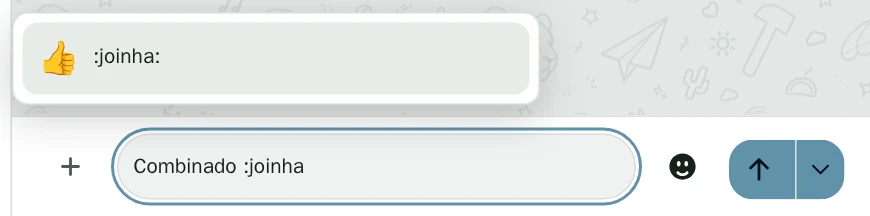
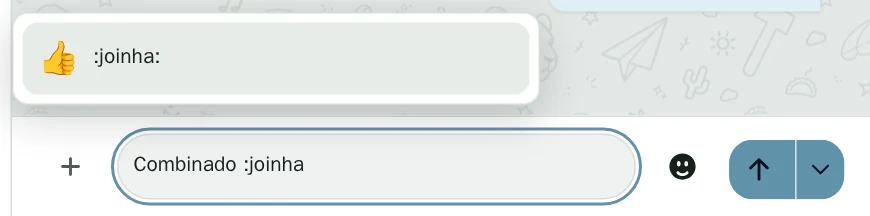
docs: refresh Oiê screenshots from main

diff --git a/README.md b/README.md
@@ -25,7 +25,7 @@ Os links em `content/baixar/index.md` apontam para arquivos de uma versão espec
 
 O manual, os atalhos e os exemplos do CLI foram conferidos com a [main do aplicativo em 6c8e8c0](https://github.com/araihu/oie/tree/6c8e8c08803e2e9433dc7bcb474024589aa63699). A página de arquitetura e deploy foi conferida com a [revisão 883551a](https://github.com/araihu/oie/tree/883551afe9f4f9a4ef2c27b1fc34c87fd4fd1a2f). Ao atualizar, registre o SHA das páginas revisadas e confira as notas da versão oferecida em **Baixar**. O contrato HTTP fica no [catálogo OpenAPI da Arai Hû](https://oapi.araihu.com/catalogs/oie/documents/engine-next/).
 
-As capturas no manual e nos atalhos mostram a interface em pt-BR com dados fictícios em instâncias isoladas. As capturas da busca geral e da solicitação de mensagem são de `6c8e8c0`. As demais foram conferidas em `7ae8057`. Os recortes estão em WebP, ao lado da página que os usa.
+As capturas da página inicial, do manual e dos atalhos mostram a interface em pt-BR com dados fictícios em instâncias isoladas. A captura da página inicial e as sete capturas de recursos mais antigas foram refeitas na [revisão e87ea75](https://github.com/araihu/oie/tree/e87ea75b0dac62915c0b4e7fe8cb49d01ecc6692). As capturas da busca geral e da solicitação de mensagem são de `6c8e8c0`, que tem a mesma interface. As imagens estão em WebP.
 
 ## Publicação
 
@@ -35,5 +35,4 @@ O GitHub Actions roda a cada push em `main`, gera os arquivos do Margo e publica
 
 - O tema Oiê e o catálogo Margo vêm de [araihu/assets](https://github.com/araihu/assets/tree/main/themes). Para atualizar os dois, altere `themes/assets-revision` para o SHA completo desejado e rode `./scripts/sync-theme.sh`. O script valida o SHA-256 do CSS. `themes/site.css` concentra os estilos da página.
 - `content/brand/logo.svg` e `favicon.svg` são, respectivamente, `dist/brand/oie/logo/light-transparent-optical.svg` e `dist/icons/brand/oie-icon-light-transparent-optical.svg` do [Assets, revisão 428dbea](https://github.com/araihu/assets/tree/428dbea099d6bceab3333aeaef0ade4350d36a54). A versão escura em `logo-dark.svg` usa `dist/brand/oie/logo/dark-transparent-optical.svg` da mesma revisão. A imagem de compartilhamento usa o mesmo logotipo sobre um fundo da paleta do Oiê.
-- A captura de tela usa apenas dados de exemplo do [servidor de demonstração do Oiê](https://github.com/araihu/oie/tree/f819b9d0fe746d9f0cd3e89905379eec760d3fb5/cmd/oie-mock).
 - O site usa GPL-3.0, a mesma licença do aplicativo. As licenças e os créditos de terceiros acompanham o repositório em `LICENSES/`.

diff --git a/content/index.md b/content/index.md
@@ -16,7 +16,7 @@ Conecte as contas que você já usa, retome conversas pelo histórico e guarde a
 
 ## Uma olhada no Oiê
 
-![Janela do Oiê com a lista de conversas e a sala Casa aberta, com mensagens de exemplo sobre uma trilha no sábado](brand/conversa.webp)
+![Interface do Oiê com a lista de conversas, a sala Trilhas de sábado aberta e o campo de mensagem](brand/conversa.webp)
 
 *Interface do Oiê com uma conversa de exemplo.*
 
